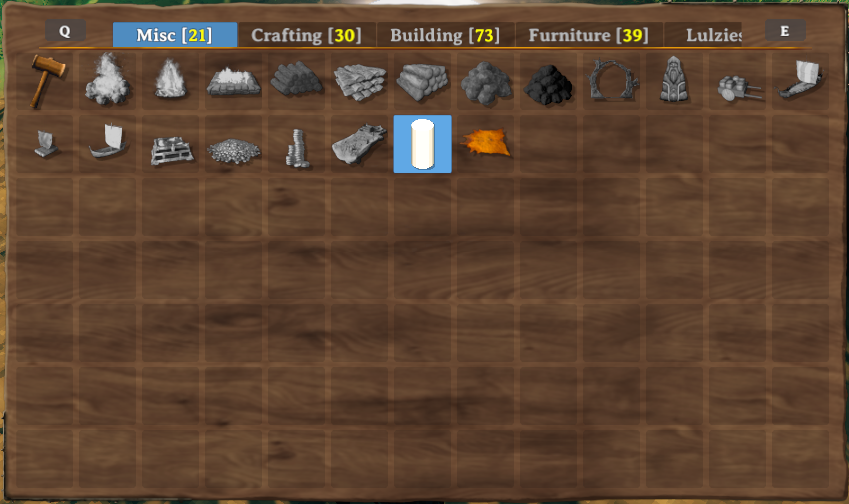
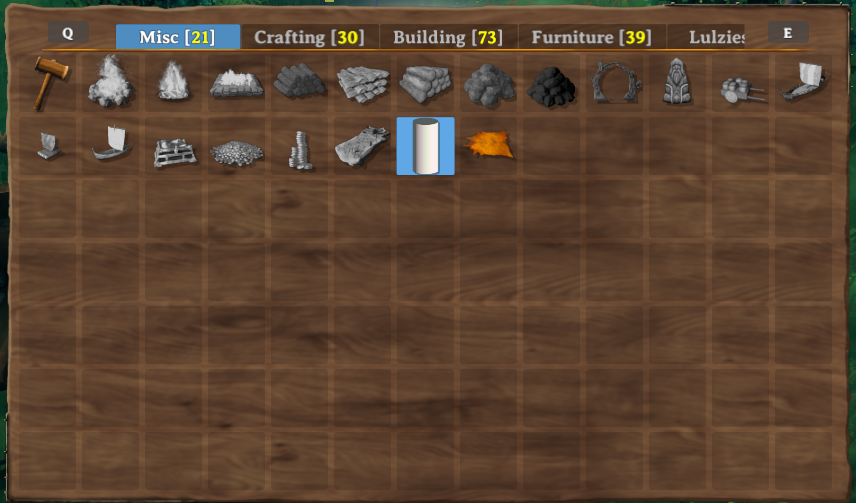
docs: updated pieces and item tutorial to use direct assetbundle loading

diff --git a/TestMod/TestMod.cs b/TestMod/TestMod.cs
@@ -804,43 +804,35 @@ namespace TestMod
         private void AddItemsWithConfigs()
         {
             // Add a custom piece table with custom categories
-            var tablePrefab = BlueprintRuneBundle.LoadAsset<GameObject>("_BlueprintTestTable");
             PieceTableConfig runeTable = new PieceTableConfig();
             runeTable.CanRemovePieces = false;
             runeTable.UseCategories = false;
             runeTable.UseCustomCategories = true;
             runeTable.CustomCategories = new string[] { "Make", "Place" };
-            PieceManager.Instance.AddPieceTable(new CustomPieceTable(tablePrefab, runeTable));
+            PieceManager.Instance.AddPieceTable(new CustomPieceTable(BlueprintRuneBundle, "_BlueprintTestTable", runeTable));
 
             // Create and add a custom item
-            var runePrefab = BlueprintRuneBundle.LoadAsset<GameObject>("BlueprintTestRune");
-
-            ItemConfig runePrefabConfig = new ItemConfig();
-            runePrefabConfig.Amount = 1;
-            runePrefabConfig.AddRequirement(new RequirementConfig("Stone", 1));
-
+            ItemConfig runeConfig = new ItemConfig();
+            runeConfig.Amount = 1;
+            runeConfig.AddRequirement(new RequirementConfig("Stone", 1));
             // Prefab did not use mocked refs so no need to fix them
-            ItemManager.Instance.AddItem(new CustomItem(runePrefab, fixReference: false, runePrefabConfig));
+            var runeItem = new CustomItem(BlueprintRuneBundle, "BlueprintTestRune", fixReference: false, runeConfig);
+            ItemManager.Instance.AddItem(runeItem);
 
             // Create and add custom pieces
-            var makebp_prefab = BlueprintRuneBundle.LoadAsset<GameObject>("make_testblueprint");
-            var makebp = new CustomPiece(makebp_prefab, fixReference: false,
-                new PieceConfig
-                {
-                    PieceTable = "_BlueprintTestTable",
-                    Category = "Make"
-                });
-            PieceManager.Instance.AddPiece(makebp);
+            PieceConfig makeConfig = new PieceConfig();
+            makeConfig.PieceTable = "_BlueprintTestTable";
+            makeConfig.Category = "Make";
+            var makePiece = new CustomPiece(BlueprintRuneBundle, "make_testblueprint", fixReference: false, makeConfig);
+            PieceManager.Instance.AddPiece(makePiece);
 
-            var placePrefab = BlueprintRuneBundle.LoadAsset<GameObject>("piece_testblueprint");
-
-            var place = new PieceConfig();
-            place.PieceTable = "_BlueprintTestTable";
-            place.Category = "Place";
-            place.AllowedInDungeons = true;
-            place.AddRequirement(new RequirementConfig("Wood", 2));
-
-            PieceManager.Instance.AddPiece(new CustomPiece(placePrefab, fixReference: false, place));
+            var placeConfig = new PieceConfig();
+            placeConfig.PieceTable = "_BlueprintTestTable";
+            placeConfig.Category = "Place";
+            placeConfig.AllowedInDungeons = true;
+            placeConfig.AddRequirement(new RequirementConfig("Wood", 2));
+            var placePiece = new CustomPiece(BlueprintRuneBundle, "piece_testblueprint", fixReference: false, placeConfig);
+            PieceManager.Instance.AddPiece(placePiece);
 
             // Add localizations from the asset bundle
             var textAssets = BlueprintRuneBundle.LoadAllAssets<TextAsset>();
@@ -944,26 +936,18 @@ namespace TestMod
             cheatybundle.Unload(false);
         }
 
-        private AssetBundle pieceBundle;
-
         private void AddPieces()
         {
-            pieceBundle = AssetUtils.LoadAssetBundleFromResources("pieces", Assembly.GetExecutingAssembly());
-            CreateCylinderPiece();
             PrefabManager.OnVanillaPrefabsAvailable += CreateDeerRugPiece;
-        }
 
-        private void CreateCylinderPiece()
-        {
-            GameObject cylinderPrefab = pieceBundle.LoadAsset<GameObject>("Cylinder");
+            AssetBundle pieceBundle = AssetUtils.LoadAssetBundleFromResources("pieces", Assembly.GetExecutingAssembly());
 
             PieceConfig cylinder = new PieceConfig();
             cylinder.Name = "$cylinder_display_name";
             cylinder.PieceTable = "Hammer";
-            cylinder.Icon = RenderManager.Instance.Render(cylinderPrefab, RenderManager.IsometricRotation);
             cylinder.AddRequirement(new RequirementConfig("Wood", 2, 0, true));
 
-            PieceManager.Instance.AddPiece(new CustomPiece(cylinderPrefab, fixReference: false, cylinder));
+            PieceManager.Instance.AddPiece(new CustomPiece(pieceBundle, "Cylinder", fixReference: false, cylinder));
         }
 
         private void CreateDeerRugPiece()

diff --git a/JotunnLib/Documentation/tutorials/pieces.md b/JotunnLib/Documentation/tutorials/pieces.md
@@ -59,25 +59,16 @@ In order to better facilitate creation of pieces we have introduced the abstract
 These allow us to quickly and easily define common properties for pieces, such as the table they belong too, any restrictions or resources required.
 
 ```cs
-private AssetBundle pieceBundle;
-
 private void Awake()
 {
-    pieceBundle = AssetUtils.LoadAssetBundleFromResources("pieces", Assembly.GetExecutingAssembly());
-    CreateCylinderPiece();
-}
-
-private void CreateCylinderPiece()
-{
-    GameObject cylinderPrefab = pieceBundle.LoadAsset<GameObject>("Cylinder");
+    AssetBundle pieceBundle = AssetUtils.LoadAssetBundleFromResources("pieces", Assembly.GetExecutingAssembly());
 
     PieceConfig cylinder = new PieceConfig();
     cylinder.Name = "$cylinder_display_name";
     cylinder.PieceTable = "Hammer";
-    cylinder.Icon = RenderManager.Instance.Render(cylinderPrefab, RenderManager.IsometricRotation);
     cylinder.AddRequirement(new RequirementConfig("Wood", 2, 0, true));
 
-    PieceManager.Instance.AddPiece(new CustomPiece(cylinderPrefab, fixReference: false, cylinder));
+    PieceManager.Instance.AddPiece(new CustomPiece(pieceBundle, "Cylinder", fixReference: false, cylinder));
 }
 ```
 
@@ -166,41 +157,35 @@ We are still using the piece table of the example `Blueprint Rune` but this time
 private void AddItemsWithConfigs()
 {
     // Add a custom piece table with custom categories
-    var tablePrefab = BlueprintRuneBundle.LoadAsset<GameObject>("_BlueprintTestTable");
-
     PieceTableConfig runeTable = new PieceTableConfig();
     runeTable.CanRemovePieces = false;
     runeTable.UseCategories = false;
     runeTable.UseCustomCategories = true;
     runeTable.CustomCategories = new string[] { "Make", "Place" };
-
-    PieceManager.Instance.AddPieceTable(new CustomPieceTable(tablePrefab, runeTable));
+    PieceManager.Instance.AddPieceTable(new CustomPieceTable(BlueprintRuneBundle, "_BlueprintTestTable", runeTable));
 
     // Create and add a custom item
-    var runePrefab = BlueprintRuneBundle.LoadAsset<GameObject>("BlueprintTestRune");
-    ItemConfig runePrefabConfig = new ItemConfig();
-    runePrefabConfig.Amount = 1;
-    runePrefabConfig.AddRequirement(new RequirementConfig("Stone", 1));
-
+    ItemConfig runeConfig = new ItemConfig();
+    runeConfig.Amount = 1;
+    runeConfig.AddRequirement(new RequirementConfig("Stone", 1));
     // Prefab did not use mocked refs so no need to fix them
-    ItemManager.Instance.AddItem(new CustomItem(runePrefab, fixReference: false, runePrefabConfig));
+    var runeItem = new CustomItem(BlueprintRuneBundle, "BlueprintTestRune", fixReference: false, runeConfig);
+    ItemManager.Instance.AddItem(runeItem);
 
     // Create and add custom pieces
-    var makePrefab = BlueprintRuneBundle.LoadAsset<GameObject>("make_testblueprint");
     PieceConfig makeConfig = new PieceConfig();
     makeConfig.PieceTable = "_BlueprintTestTable";
     makeConfig.Category = "Make";
+    var makePiece = new CustomPiece(BlueprintRuneBundle, "make_testblueprint", fixReference: false, makeConfig);
+    PieceManager.Instance.AddPiece(makePiece);
 
-    PieceManager.Instance.AddPiece(new CustomPiece(makePrefab, fixReference: false, makeConfig));
-
-    var placePrefab = BlueprintRuneBundle.LoadAsset<GameObject>("piece_testblueprint");
-    var place = new PieceConfig();
-    place.PieceTable = "_BlueprintTestTable";
-    place.Category = "Place";
-    place.AllowedInDungeons = true;
-    place.AddRequirement(new RequirementConfig("Wood", 2));
-
-    PieceManager.Instance.AddPiece(new CustomPiece(placePrefab, fixReference: false, place));
+    var placeConfig = new PieceConfig();
+    placeConfig.PieceTable = "_BlueprintTestTable";
+    placeConfig.Category = "Place";
+    placeConfig.AllowedInDungeons = true;
+    placeConfig.AddRequirement(new RequirementConfig("Wood", 2));
+    var placePiece = new CustomPiece(BlueprintRuneBundle, "piece_testblueprint", fixReference: false, placeConfig);
+    PieceManager.Instance.AddPiece(placePiece);
 }
 ```
 

diff --git a/JotunnLib/Documentation/tutorials/items.md b/JotunnLib/Documentation/tutorials/items.md
@@ -72,14 +72,13 @@ Similarly in this example instead of cloning our prefabs, we are just going to i
 private void CreateBlueprintRune()
 {
     // Create and add a custom item
-    var runePrefab = BlueprintRuneBundle.LoadAsset<GameObject>("BlueprintTestRune");
-
-    ItemConfig runePrefabConfig = new ItemConfig();
-    runePrefabConfig.Amount = 1;
-    runePrefabConfig.AddRequirement(new RequirementConfig("Stone", 1));
+    ItemConfig runeConfig = new ItemConfig();
+    runeConfig.Amount = 1;
+    runeConfig.AddRequirement(new RequirementConfig("Stone", 1));
 
     // Prefab did not use mocked refs so no need to fix them
-    ItemManager.Instance.AddItem(new CustomItem(runePrefab, fixReference: false, runePrefabConfig));
+    var runeItem = new CustomItem(BlueprintRuneBundle, "BlueprintTestRune", fixReference: false, runeConfig);
+    ItemManager.Instance.AddItem(runeItem);
 }
 ```
 
